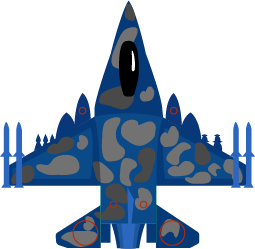
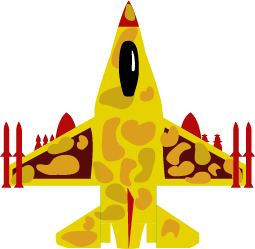
Added better clouds, the background is darker, the player 2 is now yellow to be more visible, a message of 'respawning' is shown to help the user know. The game is over.

diff --git a/project/game/director.py b/project/game/director.py
@@ -45,8 +45,12 @@ class Director(arcade.Window):
         self._scene = arcade.Scene()
         self._gui_interface = GuiInterface()
         self._cloud_sprite = CloudSprite
-        #--------------- Create the Sprite lists
+        #--------------- Create the Sprite lists ---------------#
+        # Clouds
+        self._scene.add_sprite_list(self._constants.CLOUDS_LIST_NAME)
+        # Players
         self._scene.add_sprite_list(self._constants.PLAYERS_LIST_NAME)
+        # Enemies
         self._scene.add_sprite_list(self._constants.ENEMIES_LIST_NAME)
         # Bullets of the players
         self._scene.add_sprite_list(self._constants.P_BULLETS_LIST_NAME)
@@ -54,8 +58,6 @@ class Director(arcade.Window):
         self._scene.add_sprite_list(self._constants.E_BULLETS_LIST_NAME)
         # Explosion of the enemies
         self._scene.add_sprite_list(self._constants.EXPLOSIONS_LIST_NAME)
-        # Clouds
-        self._scene.add_sprite_list(self._constants.CLOUDS_LIST_NAME)
 
         # The following number will increase as the player kills enemies
         self._enemies_count = self._constants.STARTING_ENEMIES_COUNT
@@ -98,9 +100,9 @@ class Director(arcade.Window):
         self._gui_interface.drawGUIS(self._p1_jet_sprite)
         self._gui_interface.drawGUIS(self._p2_jet_sprite)
         self._gui_interface.draw_current_level(self._current_level)
-        if self._game_over == 1:
+        if self._game_over == self._constants.GAME_WIN:
             self._gui_interface.draw_game_over('You won!')
-        elif self._game_over == 2:
+        elif self._game_over == self._constants.GAME_OVER:
             self._gui_interface.draw_game_over('Game Over')
 
     def on_key_press(self, symbol, modifiers):
@@ -141,16 +143,16 @@ class Director(arcade.Window):
                 cloud = self._cloud_sprite()
                 self._scene.add_sprite(self._constants.CLOUDS_LIST_NAME, cloud)
             for cloud in self._scene[self._constants.CLOUDS_LIST_NAME]:
-                if cloud.center_y > self._constants.SCREEN_HEIGHT:
+                if cloud.bottom > self._constants.SCREEN_HEIGHT:
                     cloud.kill()
 
             # Checking for end of loop
             if self._current_level == self._constants.WIN_LEVEL:
                 # Player/s won the game
-                self._game_over = 1
+                self._game_over = self._constants.GAME_WIN
             elif len(self._scene[self._constants.PLAYERS_LIST_NAME]) < 1:
                 # Players lost the game
-                self._game_over = 2
+                self._game_over = self._constants.GAME_OVER
             
         else:
             sleep(3)

diff --git a/project/game/constants.py b/project/game/constants.py
@@ -9,10 +9,11 @@ SCREEN_TITLE = "Jet Fighters - Beta Version"
 SCREEN_WIDTH = 800
 SCREEN_HEIGHT = 600
 #RGB bg color 
-BACKGROUND_COLOR = (6, 123, 194)
+# BACKGROUND_COLOR = (6, 123, 194)
+BACKGROUND_COLOR = (0, 100, 171)
 
 # Screen limits
-OFFSCREEN_SPACE = 150
+OFFSCREEN_SPACE = 80
 LEFT_LIMIT = -OFFSCREEN_SPACE
 RIGHT_LIMIT = SCREEN_WIDTH + OFFSCREEN_SPACE
 BOTTOM_LIMIT = -OFFSCREEN_SPACE
@@ -26,6 +27,8 @@ GAME_OVER = 2 # The number indicates if the player loose
 # Coordinates for GUI elements
 SCORE_HEIGHT = SCREEN_HEIGHT - 28
 LIVES_HEIGHT = SCREEN_HEIGHT - 52
+RESPAWNING_HEIGHT = SCREEN_HEIGHT - 76
+CURRENT_LEVEL_HEIGHT = SCREEN_HEIGHT - 180
 P1_GUI_X = 10
 P2_GUI_X = SCREEN_WIDTH - P1_GUI_X - 400
 
@@ -65,7 +68,9 @@ CLOUDS_LIST_NAME = "Clouds"
 # Bullet
 BULLET_SCALE = 0.5
 BULLET_SPEED = 19
-BULLET_SPEED_ENEMY = 6
+BULLET_SPEED_ENEMY = 4
+# Amount of frames between enemies shots (The higher, the slower)
+ENEMY_SHOOT_TIMER_RANGE = [60, 100]
 
 # Enemy
 ENEMY_SPEED = 1
@@ -73,8 +78,6 @@ ENEMY_LIVES = 1
 POINTS_PER_KILL = 50
 STARTING_ENEMIES_COUNT = 2
 MAX_ENEMIES_COUNT = 8
-# Amount of fram between enemies shots (The higher, the slower)
-ENEMY_SHOOT_TIMER_RANGE = [45, 80]
 
 #==== ASSETS
 # Images
@@ -82,7 +85,8 @@ PLAYER1_IMG = "../assets/images/player1.png"
 PLAYER2_IMG = "../assets/images/player2.png"
 ENEMY_IMG = "../assets/images/enemy.png"
 BULLET_IMG = "../assets/images/bullet.png"
-CLOUDS_IMG = ["../assets/images/clouds/cloud1.png", "../assets/images/clouds/cloud2.png", "../assets/images/clouds/cloud3.png", "../assets/images/clouds/cloud4.png", "../assets/images/clouds/cloud5.png"]
+# Adding 7 different clouds
+CLOUDS_IMG = ["../assets/images/clouds/cloud1.png", "../assets/images/clouds/cloud2.png", "../assets/images/clouds/cloud3.png", "../assets/images/clouds/cloud4.png", "../assets/images/clouds/cloud5.png", "../assets/images/clouds/cloud6.png", "../assets/images/clouds/cloud7.png"]
 
 # Clouds
 CLOUDS_COUNT = 3

diff --git a/project/game/guiInterface.py b/project/game/guiInterface.py
@@ -16,9 +16,11 @@ class GuiInterface():
         self._draw_player_GUI(player)
 
     def _draw_player_GUI(self, player):
+        """ Draws the player's score, lives, and if it's respawning """
         # Draw our score on the screen, scrolling it with the viewport
         score_text = f"Score: {player.get_score()}"
         lives_text = f"Lives: {player.get_lives()}"
+        respawning_text = f"Respawning..."
 
         if player.get_player_number() == 1:
             gui_x = self._constants.P1_GUI_X
@@ -39,6 +41,15 @@ class GuiInterface():
             arcade.csscolor.WHITE,
             18
         )
+        # Print if the user is respawning
+        if player.is_respawning():
+            arcade.draw_text(
+                respawning_text,
+                gui_x,
+                self._constants.RESPAWNING_HEIGHT,
+                arcade.csscolor.GREENYELLOW,
+                18
+            )
 
     def draw_current_level(self, level_num):
         """ Draws the current level on the screen
@@ -47,7 +58,7 @@ class GuiInterface():
         arcade.draw_text(
             level_text,
             self._constants.SCREEN_WIDTH / 2 - 50,
-            self._constants.SCORE_HEIGHT - 60,
+            self._constants.CURRENT_LEVEL_HEIGHT,
             arcade.csscolor.WHITE,
             24
         )

diff --git a/project/game/enemiesSprite.py b/project/game/enemiesSprite.py
@@ -25,7 +25,7 @@ class EnemiesSprite(arcade.Sprite):
         self.setup_enemy()
 
     def setup_enemy(self):
-
+        """ Set up the enemy. """
         self.guid = "Enemy"
 
         # Here we make enemies spawn outside the screen
@@ -41,10 +41,10 @@ class EnemiesSprite(arcade.Sprite):
             random.randrange(self._constants.SCREEN_WIDTH, self._constants.RIGHT_LIMIT) # 0 to right limit
             ]
         )
-
+        # Here we make enemies move in a random direction
         self.change_x = random.choice([random.random() * 3, random.random() * -3])
         self.change_y = random.choice([random.random() * 3, random.random() * -3])
-
+        # Here we make enemies' angle match their direction
         self.angle = math.degrees(math.atan2(self.change_y, self.change_x)) - 90
 
     def update(self):

diff --git a/project/game/bulletSprite.py b/project/game/bulletSprite.py
@@ -47,8 +47,10 @@ class BulletSprite(arcade.Sprite):
 
         # Set bullet speed
         if self.get_bullet_id() != 0:
+            # Bullet speed for players
             b_speed = self._constants.BULLET_SPEED
         else:
+            # Bullet speed for enemies
             b_speed = self._constants.BULLET_SPEED_ENEMY
 
         self.change_y = \
